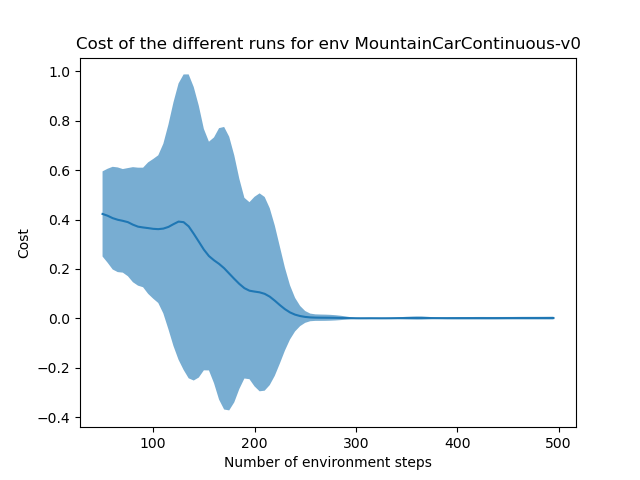
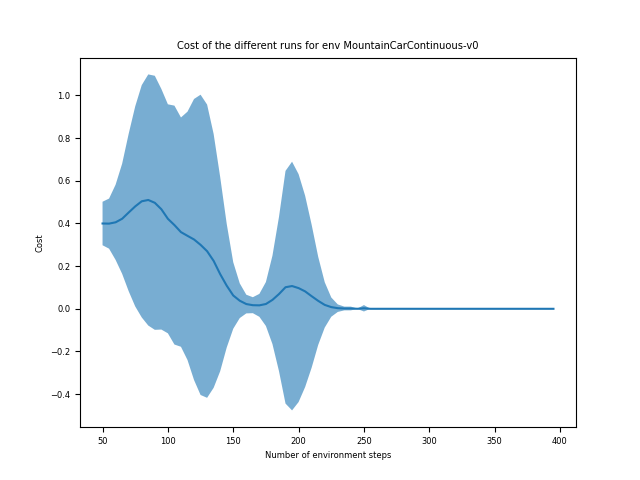
- Added dynamic visualizations - Added weight action in cost function - Corrected error in the computation of future variance state - Removed unecessary files - Cleaned some parts of the main.py file

diff --git a/main.py b/main.py
@@ -167,6 +167,7 @@ def main():
 
 		control_object.p_save_plot_history.join()
 		control_object.p_save_plot_history.close()
+		plt.close()
 
 	if num_tests > 1:
 		mean_cost_runs = losses_tests.mean(0)
